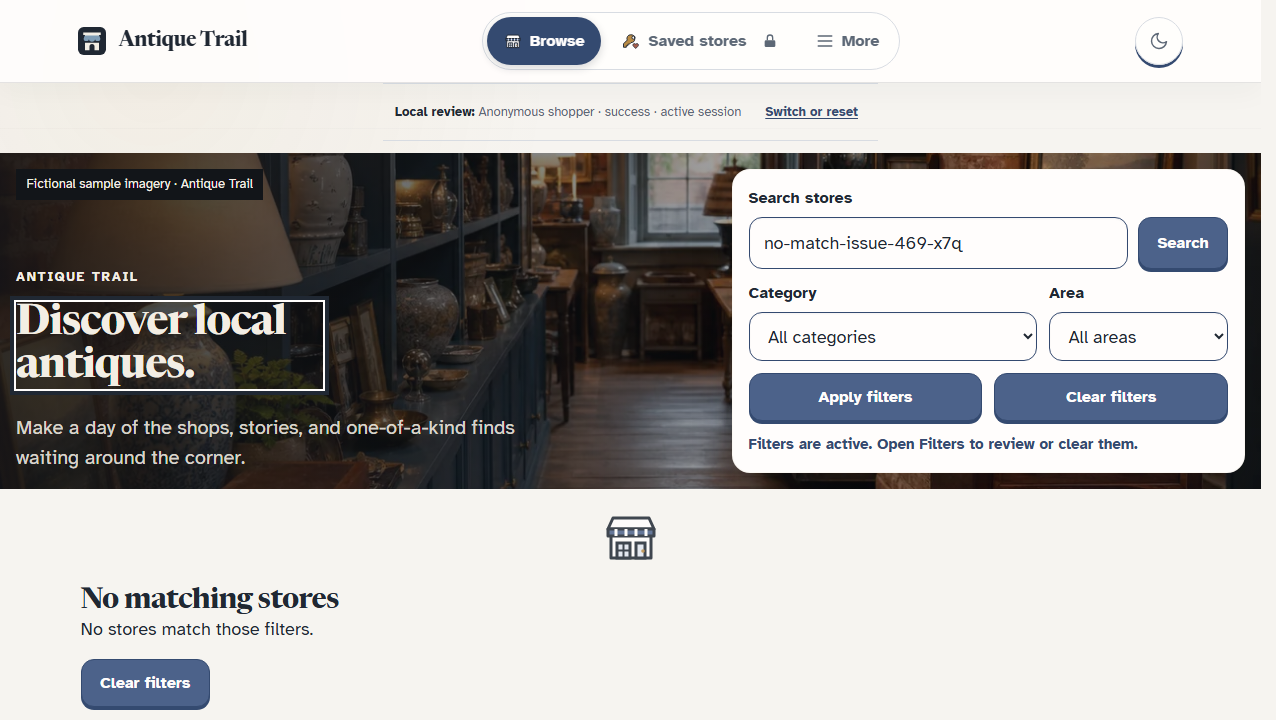
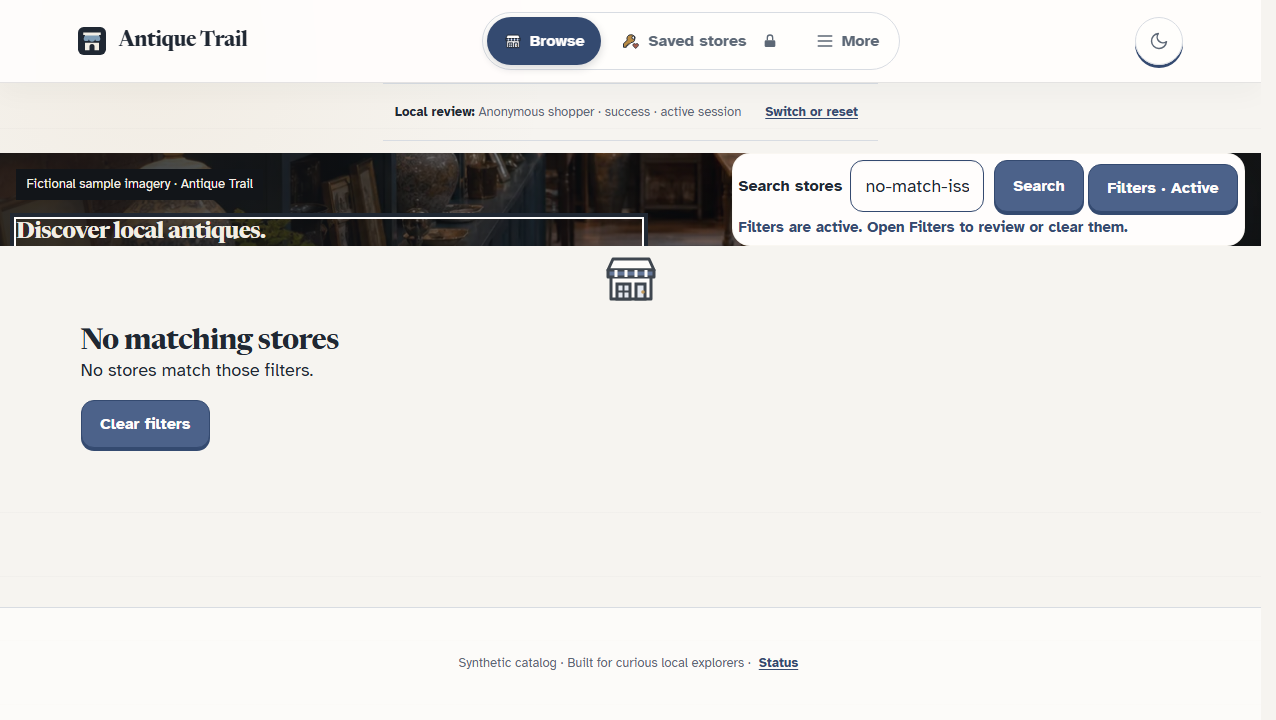
docs: refresh issue 469 card-order evidence

diff --git a/docs/evidence/issue-469/acceptance.md b/docs/evidence/issue-469/acceptance.md
@@ -6,33 +6,33 @@
 - Owner/chat: `@samarquis` (issue assignee); Codex ticket task #469 on `codex/issue-469-browse-results-viewport`.
 - Risk: standard; synthetic catalog data and presentation behavior only.
 - Admission baseline: `c9bb80250d5087ace3638059da09cd628bc1fad6`.
-- Current PR base: `5391bd027b4f3df3a3fde85e02c284345d8fe1aa`.
-- Source candidate SHA: `a190e85151d998ed0df57eaed7c1d537bd5f320a`.
-- Source PR head before this evidence-only update: `a190e85151d998ed0df57eaed7c1d537bd5f320a`.
-- Diff fingerprint: `1de55ce809a6123077d704d9ccbb3091028961bd` for changed application and regression-test files against the current PR base.
+- Current PR base: `de76d381ca7b522b25c61eea20920569085f3b93`.
+- Source candidate SHA: `6d8415f0125bd8bef093dd643c563951ec429d9a`.
+- Source PR head before this evidence-only update: `6d8415f0125bd8bef093dd643c563951ec429d9a`.
+- Diff fingerprint: `87dcb6d3148b9ca5110d39320a6d621a0222f6f2` for the application and regression-test files listed below against the current PR base.
 - Branch: `codex/issue-469-browse-results-viewport` in its isolated ticket worktree.
-- Evidence captured at: 2026-10-02 13:16 CDT, local Windows Chromium and Vite review harness.
+- Evidence captured at: 2026-10-02 13:47 CDT, local Windows Chromium and Vite review harness.
 
 ## Scope
 
-After a search, the Browse hero enters compact results mode, moves imagery attribution clear of filter feedback, and keeps the H1 visible at stacked widths while trimming editorial copy. Compact result cards put the actual linked title before the cover, so the first listing appears in the initial desktop viewport. Card columns and cover dimensions remain unchanged. At 320px, compact spacing and the decorative empty-state illustration are removed so recovery clears the bottom navigation. Active feedback remains inside the search form.
+After a search, the Browse hero enters compact results mode, moves imagery attribution clear of filter feedback, and keeps the H1 visible at stacked widths while trimming editorial copy. At desktop widths, the compact hero keeps the search label visible, exposes the Filters toggle, and collapses the advanced panel; the original card order remains cover/placeholder before name. The smaller hero brings the actual linked first-card title into the initial viewport. Card columns and cover dimensions remain unchanged. At 320px, compact spacing and the decorative empty-state illustration are removed so recovery clears the bottom navigation. Active feedback remains inside the search form.
 
 Excluded: card density or image-size changes, catalog data changes, search/filter semantics, database/provider work, deployment, and production publication.
 
-The admission order remains #469 → #470 → #467. Refreshed `origin/main` is `5391bd0`; the intervening #477 and #478 commits touch review surfaces only and do not overlap this ticket's source files.
+The admission order remains #469 → #470 → #467. `origin/main` advanced to `de76d381` during review. Changes from the prior PR base affect auth/shopper source and test files, with no overlap in this ticket's application source files.
 
-GitHub CI on prior PR head `81a25b2e469722df12c97c50ea91fee5c2a43bfb` reported 1,089 passed, 1 failed, and 1 skipped. Its only failure was the Store Details focus test matching both the card link and the first-result summary link. The redundant summary link is removed, and the focus assertion is scoped to Store results. CI for current source candidate `a190e851` is pending. An earlier local full-suite run on `f987aa2` had 1,079 passed, 9 failed, and 1 skipped; eight failures were 5-second timeouts and one was an unrelated PasswordReplacement assertion. Those nine passed when rerun serially in the unrelated suites.
+GitHub CI on pre-rebase PR head `efaf864dcf6988bf6975444308cb130bf1a2ab38` passed web (12m05s, including browser tests), database (3m07s), and configured-owner-billing (4m03s); Supabase Preview was skipped. These results diagnose the old base and source only. Fresh CI for the rebased source candidate is pending after push.
 
 ## Acceptance
 
-| Criterion                        | Observable pass condition                                                                       | Verification method                                                                           | Result/evidence                                                                                                                                                                                                                                       |
-| -------------------------------- | ----------------------------------------------------------------------------------------------- | --------------------------------------------------------------------------------------------- | ----------------------------------------------------------------------------------------------------------------------------------------------------------------------------------------------------------------------------------------------------- |
-| Search result visibility         | At 1276×720 and 1600×900, count and the actual first card title appear in the initial viewport. | Chromium browser geometry and screenshots.                                                    | Pass: count y=539–570; actual linked “Blue Finch Curios” H2 y=592–656 and link y=600–648. Cover begins below the title and remains 538×359px; grid stays two columns.                                                                                 |
-| No-match recovery                | Count/state and recovery action appear without scrolling past the full hero.                    | Chromium browser geometry and screenshots.                                                    | Pass at 1276×720 and 1600×900: heading y=585–616; Clear filters y=659–707. At 1024×900 and 768×900, Clear filters is y=837–885 and y=642–690. At 320×740, heading is y=495–526 and Clear filters y=557–605, above bottom navigation at y=623.         |
-| Filter feedback and URL behavior | Feedback stays attached to a stable control surface; search and clear retain URL behavior.      | Chromium form/URL flow.                                                                       | Pass: status remains inside the search form, attribution does not overlap it, Enter yields `/stores?q=Blue+Finch`, Clear returns to `/stores` with 12 stores, and compact results mode remains active.                                                |
-| Accessibility and keyboard       | Controls remain labeled and keyboard operable; one visible page H1 remains at each breakpoint.  | Chromium accessible-role queries and keyboard flow.                                           | Pass: one visible H1, labeled search, Search button, card-title link, and keyboard Filters toggle at each viewport. Dark theme, forced-colors, reduced-motion, and text-spacing smoke checks showed no horizontal overflow or caption/status overlap. |
-| 200% reflow                      | Narrow layout reflows at the resulting CSS viewport without horizontal scrolling.               | Chromium at a 638×360 CSS viewport and DPR 2, equivalent to 1276×720 physical pixels at 200%. | Pass: narrow breakpoints active, one H1 available, document width 623px versus 638px viewport. This emulates the resulting viewport; browser zoom UI itself was not toggled.                                                                          |
-| 320px reflow                     | Layout has no horizontal page scrolling.                                                        | Chromium document/client width comparison.                                                    | Pass: document width 305px; client width 320px.                                                                                                                                                                                                       |
+| Criterion                        | Observable pass condition                                                                       | Verification method                                                                           | Result/evidence                                                                                                                                                                                                                                                                                        |
+| -------------------------------- | ----------------------------------------------------------------------------------------------- | --------------------------------------------------------------------------------------------- | ------------------------------------------------------------------------------------------------------------------------------------------------------------------------------------------------------------------------------------------------------------------------------------------------------ |
+| Search result visibility         | At 1276×720 and 1600×900, count and the actual first card title appear in the initial viewport. | Chromium browser geometry and screenshots.                                                    | Pass: count y=246–277; actual linked “Blue Finch Curios” H2 y=666–714. The cover precedes the title and remains 538×359px; grid stays two columns.                                                                                                                                                     |
+| No-match recovery                | Count/state and recovery action appear without scrolling past the full hero.                    | Chromium browser geometry and screenshots.                                                    | Pass at 1276×720 and 1600×900: heading y=326–357; Clear filters y=400–448. At 1024×900 and 768×900, Clear filters is y=837–885 and y=642–690. At 320×740, heading is y=495–526 and Clear filters y=557–605, above bottom navigation at y=623.                                                          |
+| Filter feedback and URL behavior | Feedback stays attached to a stable control surface; search and clear retain URL behavior.      | Chromium form/URL flow.                                                                       | Pass: status remains inside the search form, attribution does not overlap it, Enter yields `/stores?q=Blue+Finch`, Clear returns to `/stores` with 12 stores, and compact results mode remains active.                                                                                                 |
+| Accessibility and keyboard       | Controls remain labeled and keyboard operable; one visible page H1 remains at each breakpoint.  | Chromium accessible-role queries and keyboard flow.                                           | Pass: one visible H1, labeled search, Search button, card-title link, and visible Filters toggle. Keyboard Enter opens the compact desktop panel; category and area controls appear without horizontal overflow. Dark theme, forced-colors, reduced-motion, and text-spacing smoke checks also passed. |
+| 200% reflow                      | Narrow layout reflows at the resulting CSS viewport without horizontal scrolling.               | Chromium at a 638×360 CSS viewport and DPR 2, equivalent to 1276×720 physical pixels at 200%. | Pass: narrow breakpoints active, one H1 available, document width 623px versus 638px viewport. This emulates the resulting viewport; browser zoom UI itself was not toggled.                                                                                                                           |
+| 320px reflow                     | Layout has no horizontal page scrolling.                                                        | Chromium document/client width comparison.                                                    | Pass: document width 305px; client width 320px.                                                                                                                                                                                                                                                        |
 
 ### Rendered evidence
 
@@ -51,26 +51,26 @@ Screenshots use the local review harness, which adds a synthetic “Local review
 
 ## Verification
 
-| Layer                       | Command or flow                                                                                                                                                        | Result                                                                                                                                                                                                                               | Applies to SHA/environment                                  |
-| --------------------------- | ---------------------------------------------------------------------------------------------------------------------------------------------------------------------- | ------------------------------------------------------------------------------------------------------------------------------------------------------------------------------------------------------------------------------------ | ----------------------------------------------------------- |
-| Focused tests               | `npx vitest run --maxWorkers=1 src/features/catalog/liveEditorial.test.tsx src/features/catalog/components.test.tsx`                                                   | 38 passed, including compact card-title order and restored-focus coverage.                                                                                                                                                           | Source candidate `a190e851`, local Windows checkout.        |
-| Typecheck                   | `npm run typecheck`                                                                                                                                                    | Passed.                                                                                                                                                                                                                              | Source candidate `a190e851`.                                |
-| Lint                        | `npm run lint`                                                                                                                                                         | 0 errors; 16 existing warnings, none in changed files.                                                                                                                                                                               | Source candidate `a190e851`.                                |
-| Format                      | `npx prettier --check src/app/styles.css src/features/catalog/components.tsx src/features/catalog/components.test.tsx src/features/catalog/liveEditorial.test.tsx`     | Passed.                                                                                                                                                                                                                              | Source candidate `a190e851`.                                |
-| Release tests               | `npm run test:release`                                                                                                                                                 | 164 passed.                                                                                                                                                                                                                          | Source candidate `a190e851`.                                |
-| Build and media             | `npm run build`; `node scripts/verify-seed-media.mjs --built-root dist`                                                                                                | Build passed; 10 paths verified, 0 errors.                                                                                                                                                                                           | Source candidate `a190e851`, local.                         |
-| Layout detector             | `npx impeccable detect --json --scope layout src/features/catalog/components.tsx src/app/styles.css`                                                                   | No findings (`[]`).                                                                                                                                                                                                                  | Source candidate `a190e851`.                                |
-| Desktop/mobile UI           | Search, no-match, clear, URL, keyboard Filters toggle, visible H1, first card title, and caption/status overlap at 1600×900, 1276×720, 1024×900, 768×900, and 320×740. | All scripted checks passed; no horizontal overflow or console/page errors. At 1276×720 and 1600×900 the actual first card H2 is visible before its unchanged cover; at 320×740 Clear filters ends 18px above bottom navigation.      | Source candidate `a190e851`, local Chromium review harness. |
-| 200% reflow                 | Chromium checked search and empty state at a 638×360 CSS viewport with DPR 2.                                                                                          | Narrow layout active; one H1 remains visible; no horizontal overflow. Browser zoom UI itself was not toggled.                                                                                                                        | Source candidate `a190e851`, local Chromium.                |
-| Accessibility scope         | Chromium checked labels, one H1 at every tested width, keyboard toggle, dark theme, forced colors, reduced motion, text-spacing override, and 200% effective viewport. | Smoke checks passed. NVDA/VoiceOver screen readers and the current/previous Chrome, Edge, Firefox, Safari, iOS Safari, and Android browser matrix were not run; unverified. Contrast was not separately audited under forced colors. | Local Chromium only.                                        |
-| Full unit suite             | GitHub Actions CI on the pushed PR head.                                                                                                                               | CI rerun for source candidate `a190e851` is pending.                                                                                                                                                                                 | Unverified on source candidate until CI completes.          |
-| Database/provider lifecycle | Not in issue scope.                                                                                                                                                    | Not run.                                                                                                                                                                                                                             | Unverified.                                                 |
-| Canonical production route  | Deployment is separate and not authorized for this ticket.                                                                                                             | Not run.                                                                                                                                                                                                                             | Unverified.                                                 |
+| Layer                       | Command or flow                                                                                                                                                                              | Result                                                                                                                                                                                                                                      | Applies to SHA/environment                                  |
+| --------------------------- | -------------------------------------------------------------------------------------------------------------------------------------------------------------------------------------------- | ------------------------------------------------------------------------------------------------------------------------------------------------------------------------------------------------------------------------------------------- | ----------------------------------------------------------- |
+| Focused tests               | `npx vitest run --maxWorkers=1 src/features/catalog/liveEditorial.test.tsx src/features/catalog/countLabels.test.tsx src/features/catalog/components.test.tsx`                               | 43 passed across 3 files. One existing JSDOM navigation warning was logged after successful completion.                                                                                                                                     | Source candidate `6d8415f0`, local Windows checkout.        |
+| Typecheck                   | `npm run typecheck`                                                                                                                                                                          | Passed.                                                                                                                                                                                                                                     | Source candidate `6d8415f0`.                                |
+| Lint                        | `npm run lint`                                                                                                                                                                               | 0 errors; 16 existing warnings, none in changed files.                                                                                                                                                                                      | Source candidate `6d8415f0`.                                |
+| Format                      | `npx prettier --check src/app/styles.css src/features/catalog/components.tsx src/features/catalog/components.test.tsx src/features/catalog/liveEditorial.test.tsx`                           | Passed.                                                                                                                                                                                                                                     | Source candidate `6d8415f0`.                                |
+| Release tests               | `npm run test:release`                                                                                                                                                                       | 164 passed.                                                                                                                                                                                                                                 | Source candidate `6d8415f0`, local checkout.                |
+| Build and media             | `npm run build`; `node scripts/verify-seed-media.mjs --built-root dist`                                                                                                                      | Build passed; 10 paths verified, 0 errors.                                                                                                                                                                                                  | Source candidate `6d8415f0`, local.                         |
+| Layout detector             | `npx impeccable detect --json --scope layout src/features/catalog/components.tsx src/app/styles.css`                                                                                         | No findings (`[]`).                                                                                                                                                                                                                         | Source candidate `6d8415f0`.                                |
+| Desktop/mobile UI           | Search, no-match, clear, URL, visible H1, first card title order/visibility, filter-panel keyboard toggle, and caption/status overlap at 1600×900, 1276×720, 1024×900, 768×900, and 320×740. | All scripted checks passed; no horizontal overflow or console/page errors. At 1276×720 and 1600×900 the actual first card H2 follows its unchanged cover and appears y=666–714. At 320×740 Clear filters ends 18px above bottom navigation. | Source candidate `6d8415f0`, local Chromium review harness. |
+| 200% reflow                 | Chromium checked search and empty state at a 638×360 CSS viewport with DPR 2.                                                                                                                | Narrow layout active; one H1 remains visible; no horizontal overflow. Browser zoom UI itself was not toggled.                                                                                                                               | Source candidate `6d8415f0`, local Chromium.                |
+| Accessibility scope         | Chromium checked labels, one H1 at every tested width, keyboard toggle, dark theme, forced colors, reduced motion, text-spacing override, and 200% effective viewport.                       | Smoke checks passed. NVDA/VoiceOver screen readers and current/previous Chrome, Edge, Firefox, Safari, iOS Safari, and Android were not run; unverified. Contrast was not separately audited under forced colors.                           | Local Chromium only.                                        |
+| Full unit suite             | GitHub Actions CI on the pushed PR head.                                                                                                                                                     | Fresh CI for the rebased source candidate is pending.                                                                                                                                                                                       | Unverified on source candidate until CI completes.          |
+| Database/provider lifecycle | Not in issue scope.                                                                                                                                                                          | Not run.                                                                                                                                                                                                                                    | Unverified.                                                 |
+| Canonical production route  | Deployment is separate and not authorized for this ticket.                                                                                                                                   | Not run.                                                                                                                                                                                                                                    | Unverified.                                                 |
 
 ## TDD and Project Reflection preflight
 
-- Red proof: original viewport checks showed the first card title below the fold, the H1 clipped at stacked widths, and 320px no-match recovery below bottom navigation.
-- Green proof: all 38 focused catalog tests passed, and Chromium confirmed the actual first card title, visible H1, and 320px recovery positions.
+- Red proof: the cover-before-heading regression failed on the pre-fix source; original viewport checks also showed the title below the fold, H1 clipped at stacked widths, and 320px no-match recovery below bottom navigation.
+- Green proof: 43 focused catalog tests passed, and Chromium confirmed the actual first card title after its cover, visible H1, and 320px recovery positions.
 - Applied `L-20260927-02`: waited for the actual rendered content node before measuring layout.
 - Applied `L-20260930-01`: omitted workstation and vault paths from this shared evidence.
 - Applied `L-20260930-02`: verify the live linked-issue state after merge and close it explicitly if still open.
@@ -81,13 +81,13 @@ Screenshots use the local review harness, which adds a synthetic “Local review
 Reproduce from the candidate checkout:
 
 ```powershell
-git diff --binary --full-index 5391bd027b4f3df3a3fde85e02c284345d8fe1aa -- src/app/styles.css src/features/catalog/components.tsx src/features/catalog/liveEditorial.test.tsx src/features/catalog/components.test.tsx | git hash-object --stdin
+git diff --binary --full-index de76d381ca7b522b25c61eea20920569085f3b93 HEAD -- src/app/styles.css src/features/catalog/components.tsx src/features/catalog/liveEditorial.test.tsx src/features/catalog/components.test.tsx | git hash-object --stdin
 ```
 
-Current source-only fingerprint: `1de55ce809a6123077d704d9ccbb3091028961bd`.
+Current source-only fingerprint: `87dcb6d3148b9ca5110d39320a6d621a0222f6f2`.
 
 ## Independent review and gates
 
-- Updated standards and spec reviews, parent exact-PR-head review, required CI, merge, resulting `main` SHA, and live issue closure remain pending.
+- Pre-rebase standards and spec reviews passed at `efaf864`; root review found a card-order contract issue, resolved in this candidate. Fresh exact-head spec, standards, and root reviews, required CI, merge, resulting `main` SHA, and live issue closure remain pending.
 - Hosted/provider lifecycle and canonical production route remain unverified because deployment is outside this ticket.
 - Any affected source, configuration, fixture, or integration change invalidates corresponding proof.
